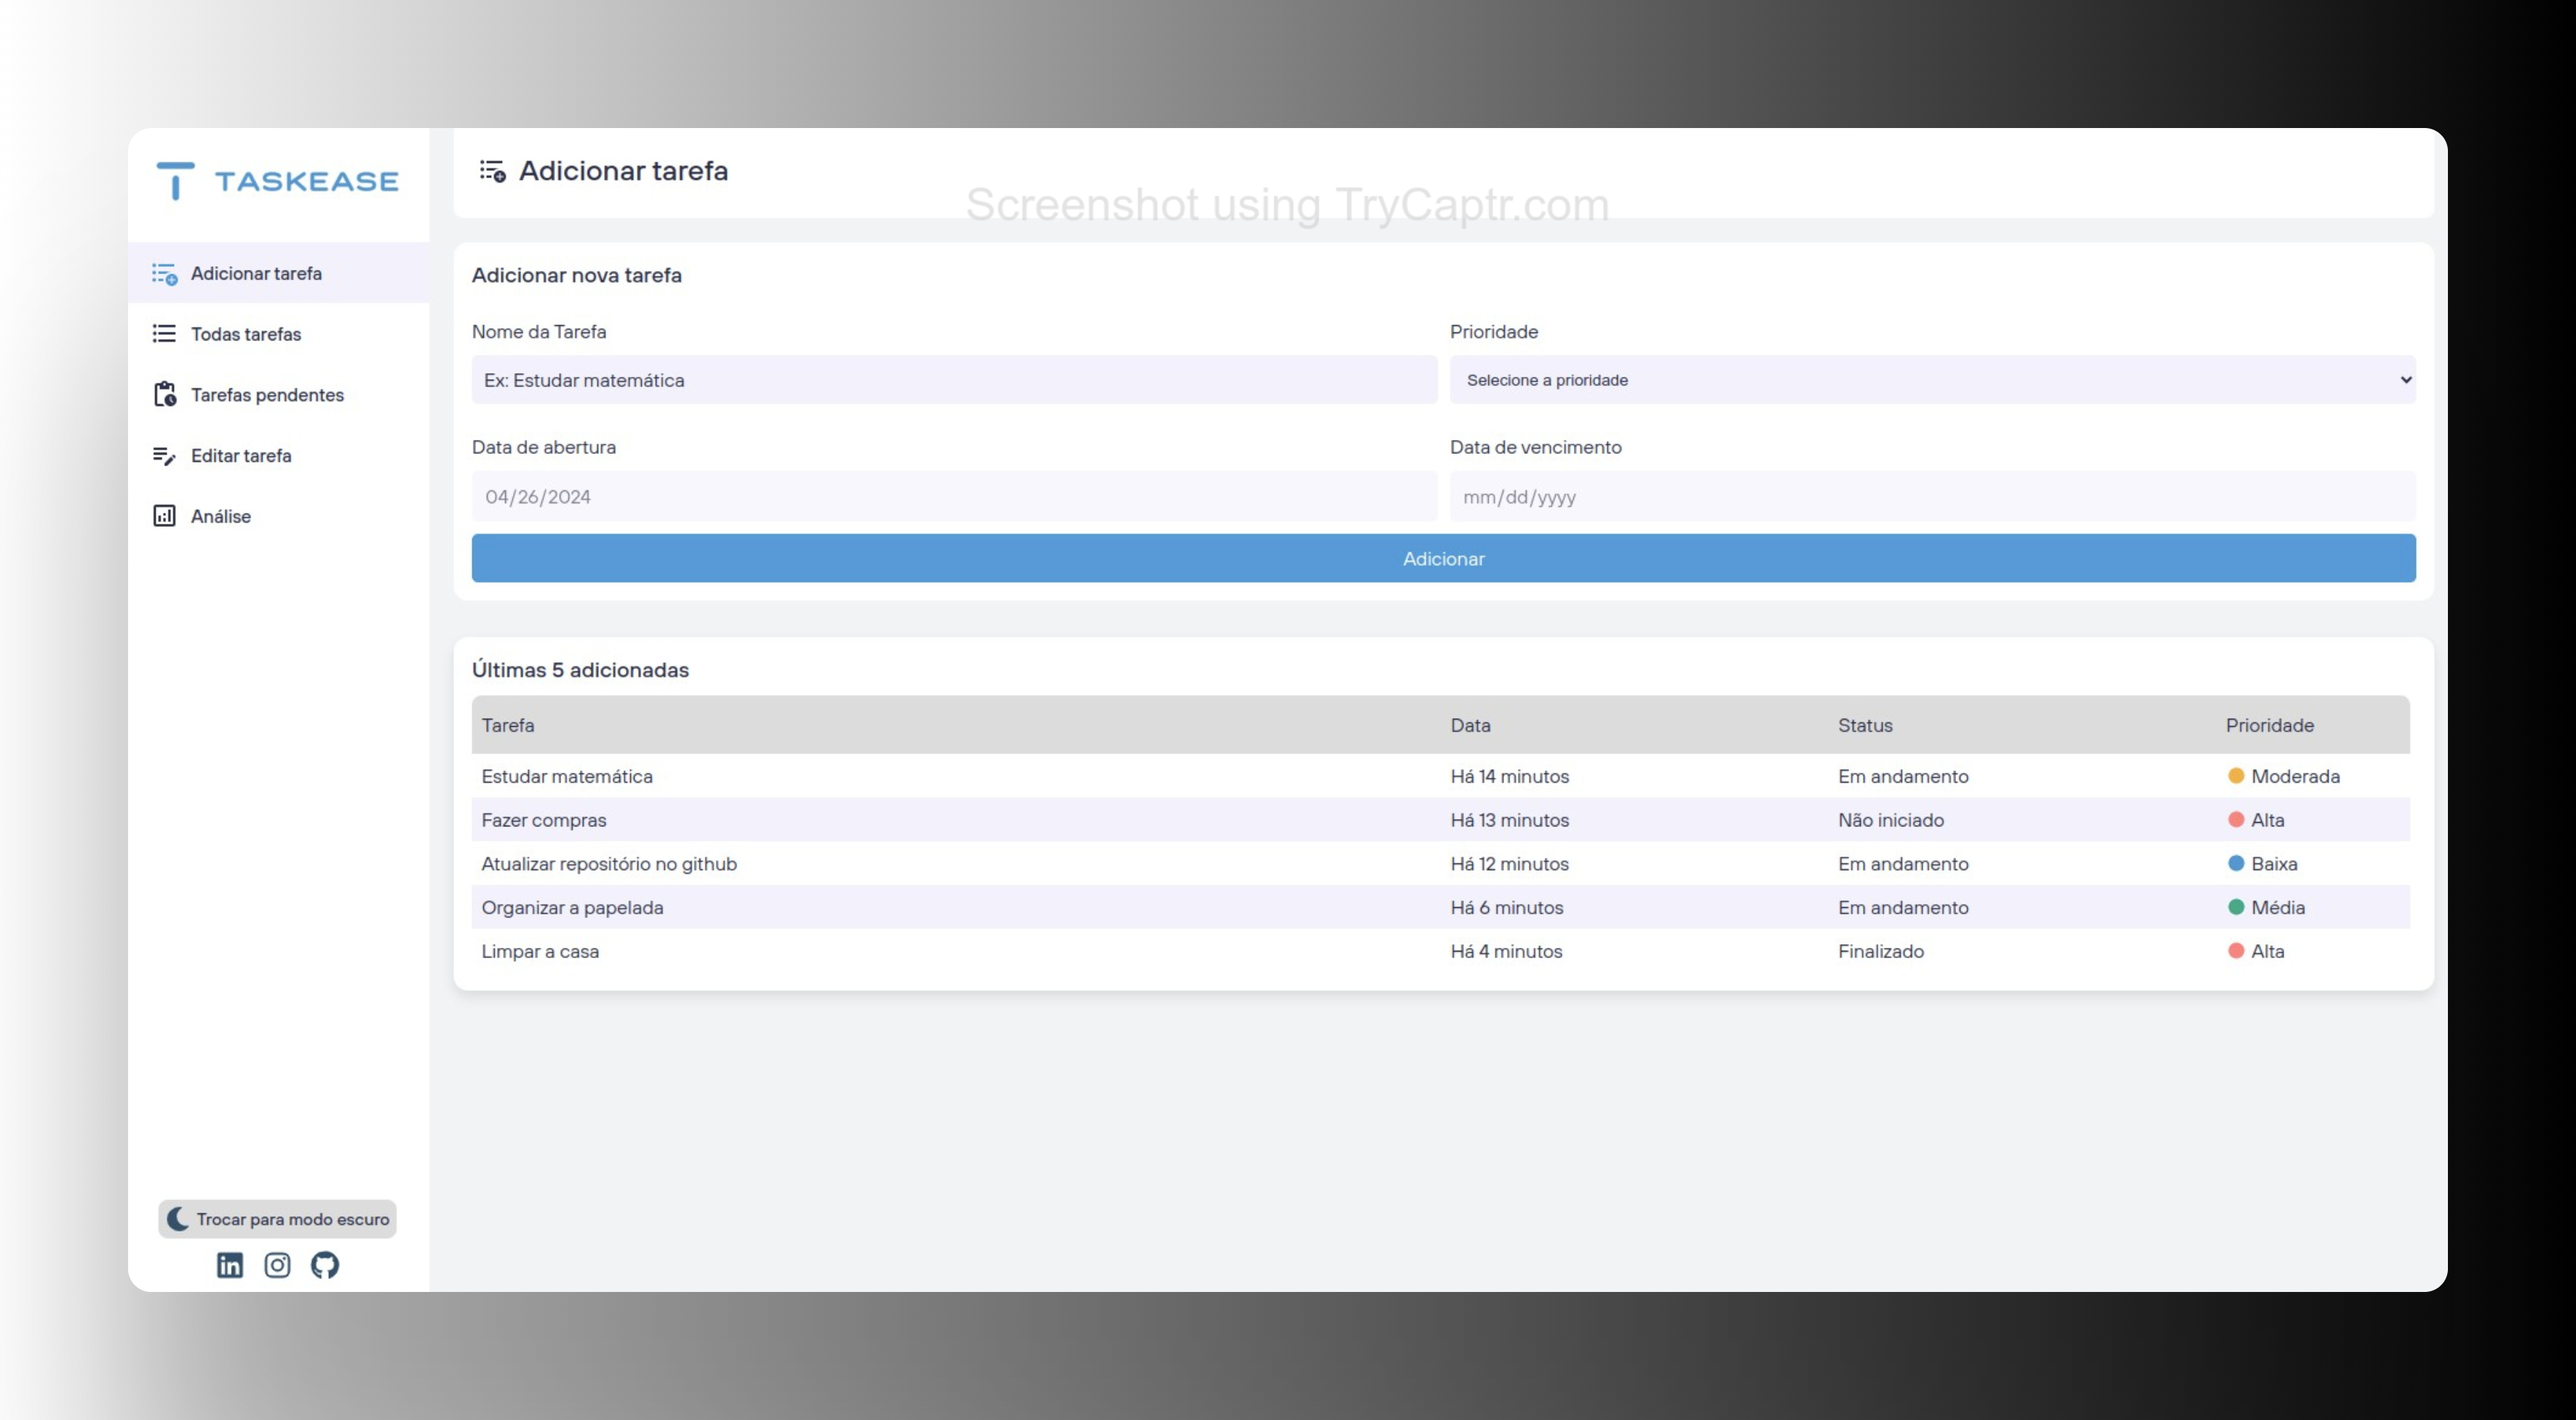
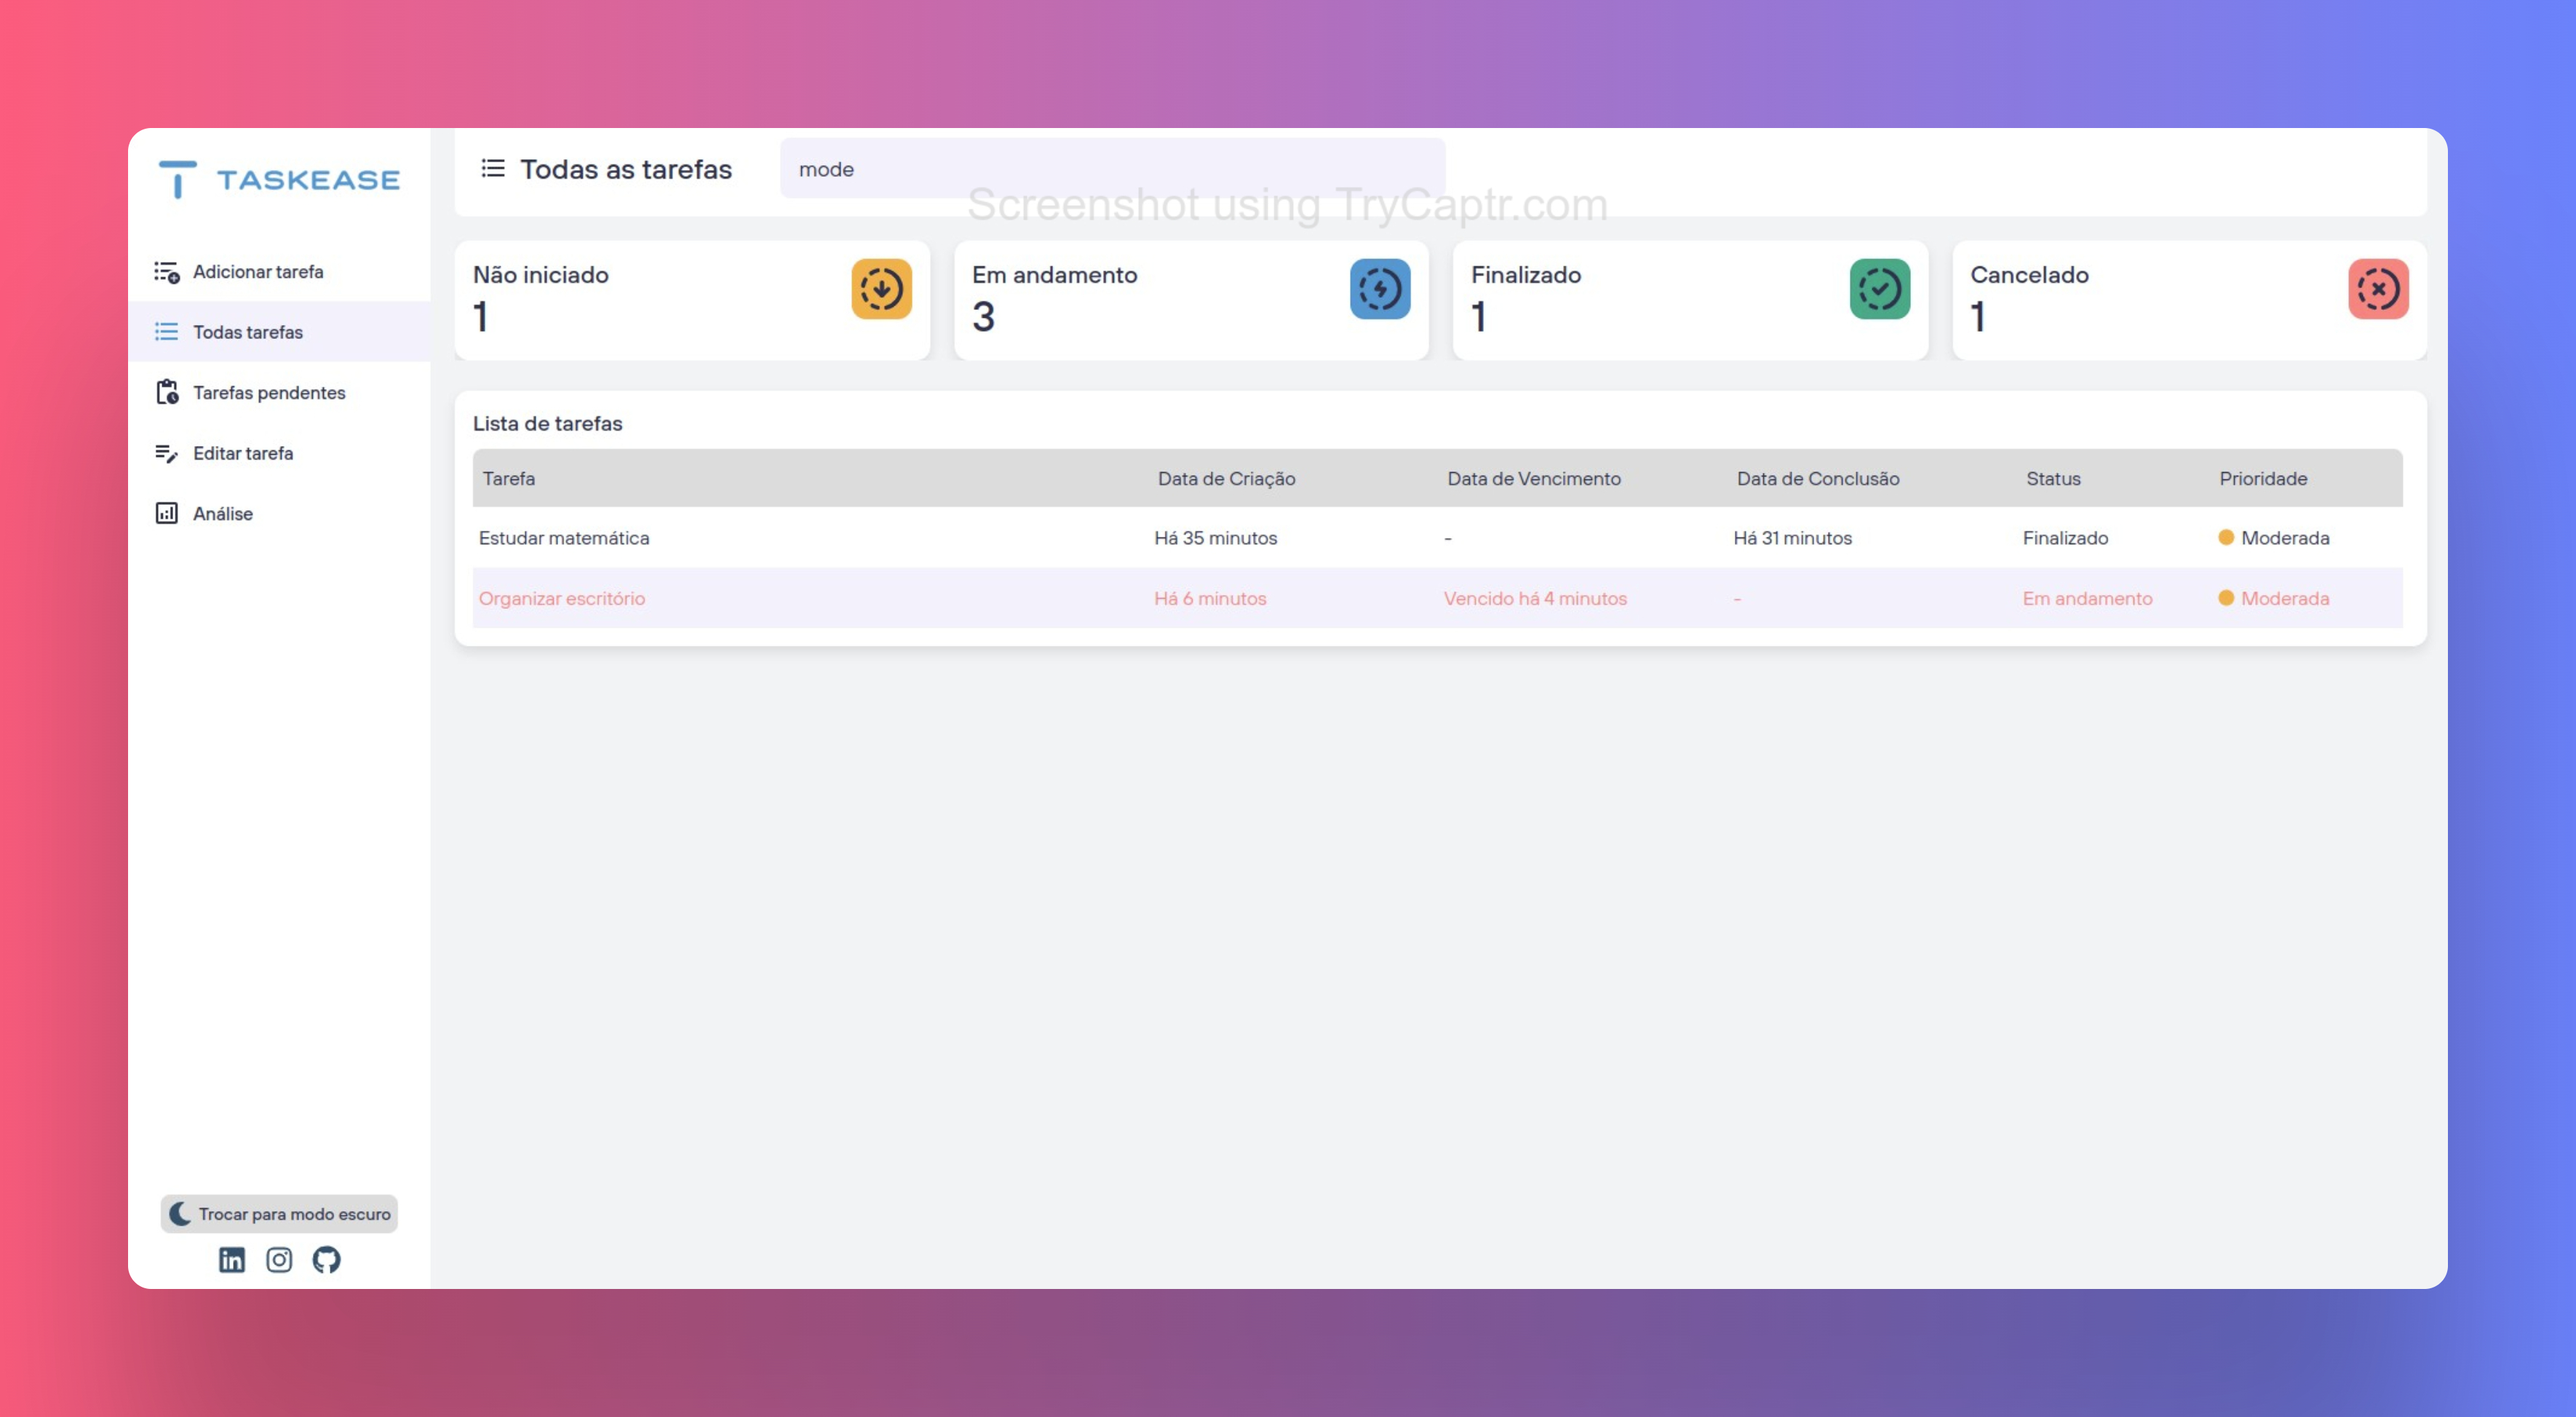
new screenshots after new features

diff --git a/frontend/src/pages/Home/index.tsx b/frontend/src/pages/Home/index.tsx
@@ -6,6 +6,7 @@ import { HomeContent } from "./styles";
 import { useState } from "react";
 import Header from "../../components/Header";
 import { MdFormatListBulleted } from "react-icons/md";
+import { priorityTextMap, statusTextMap } from "../../utils/taskUtils";
 
 export const Home = () => {
   const { tasks, filterTasksByStatusId } = useTaskContext();
@@ -16,9 +17,26 @@ export const Home = () => {
     setSearchTerm(term);
   };
 
-  const filteredTasks: Task[] = tasks.filter((task) =>
-    task.taskName.toLowerCase().includes(searchTerm.toLowerCase())
-  );
+  const filteredTasks: Task[] = tasks.filter((task) => {
+    // Verifica se o nome da tarefa contém o termo de pesquisa
+    const taskNameMatch = task.taskName
+      .toLowerCase()
+      .includes(searchTerm.toLowerCase());
+
+    const priorityMatch = priorityTextMap[task.priority]
+      .toLowerCase()
+      .includes(searchTerm.toLowerCase());
+
+    const statusMatch = statusTextMap[task.status]
+      .toLowerCase()
+      .includes(searchTerm.toLowerCase());
+
+    const createdAt = task.createdAt
+      .toLowerCase()
+      .includes(searchTerm.toLowerCase());
+
+    return taskNameMatch || priorityMatch || statusMatch || createdAt;
+  });
 
   return (
     <Container>
